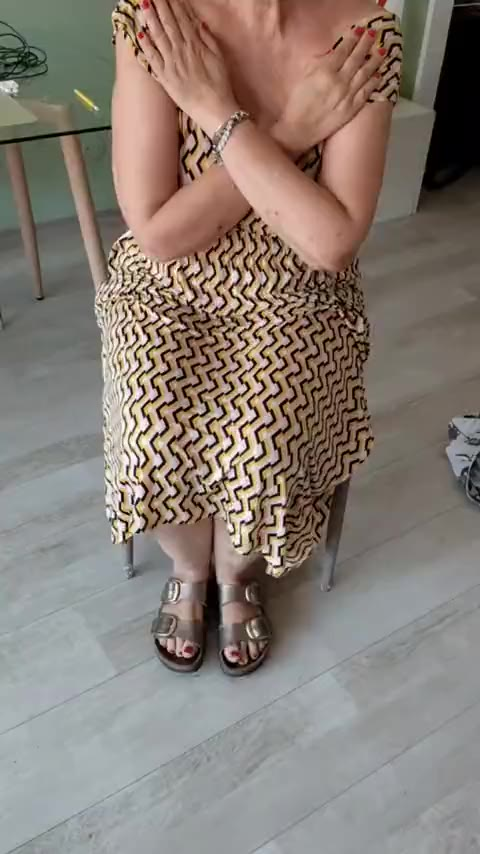
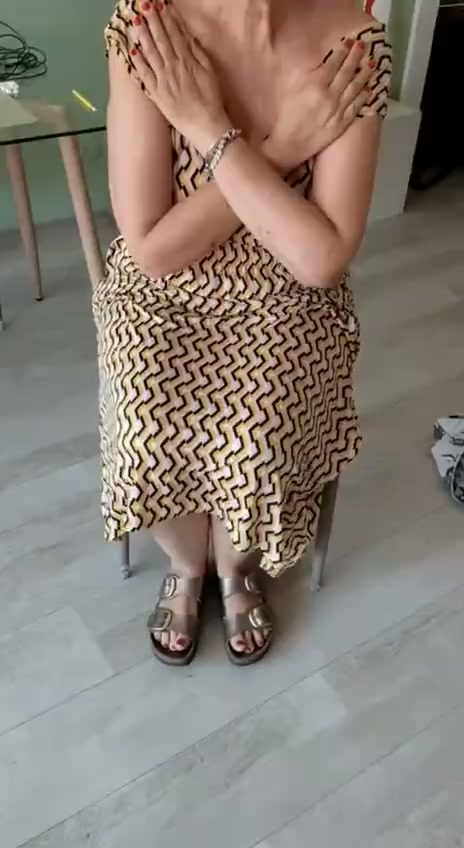
preload demos and update chair clip

diff --git a/src/components/DemoVideoProvider.tsx b/src/components/DemoVideoProvider.tsx
@@ -1,0 +1,54 @@
+import { createVideoPlayer, type VideoPlayer } from 'expo-video';
+import { createContext, useContext, useEffect, useState, type ReactNode } from 'react';
+
+import { TESTS } from '../lib/tests';
+
+const DemoVideoContext = createContext<ReadonlyMap<number, VideoPlayer> | null>(null);
+
+/**
+ * App-lifetime cache for the fixed instruction clips.
+ *
+ * expo-video buffers a player even before it is attached to a VideoView. The
+ * demo set is small and bundled with the app, so creating these players once at
+ * the root makes every instruction screen ready before the patient taps a test.
+ * Uploaded patient recordings use a separate playback path and are not cached
+ * here.
+ */
+export function DemoVideoProvider({ children }: { children: ReactNode }) {
+  const [players] = useState(() => {
+    const cache = new Map<number, VideoPlayer>();
+
+    for (const test of TESTS) {
+      if (test.demoVideo == null || cache.has(test.demoVideo)) continue;
+
+      const player = createVideoPlayer(test.demoVideo);
+      player.loop = true;
+      player.muted = true;
+      player.keepScreenOnWhilePlaying = false;
+      cache.set(test.demoVideo, player);
+    }
+
+    return cache;
+  });
+
+  useEffect(
+    () => () => {
+      for (const player of players.values()) {
+        player.pause();
+        player.release();
+      }
+    },
+    [players],
+  );
+
+  return <DemoVideoContext.Provider value={players}>{children}</DemoVideoContext.Provider>;
+}
+
+/** Returns the already-buffering player for a bundled instruction clip. */
+export function useDemoVideoPlayer(source: number | undefined): VideoPlayer | null {
+  const players = useContext(DemoVideoContext);
+  if (players == null) {
+    throw new Error('useDemoVideoPlayer must be used inside DemoVideoProvider');
+  }
+  return source == null ? null : (players.get(source) ?? null);
+}

diff --git a/src/app/_layout.tsx b/src/app/_layout.tsx
@@ -6,6 +6,7 @@ import { SafeAreaProvider } from 'react-native-safe-area-context';
 
 import '../global.css';
 import { AuthGate } from '../components/AuthGate';
+import { DemoVideoProvider } from '../components/DemoVideoProvider';
 import { DisclaimerGate } from '../components/DisclaimerGate';
 import { OfflineBanner } from '../components/OfflineBanner';
 import { UploadBanner } from '../components/UploadBanner';
@@ -25,27 +26,31 @@ export default function RootLayout() {
     <ClerkProvider publishableKey={CLERK_PUBLISHABLE_KEY} tokenCache={clerkTokenCache}>
       <LanguageProvider>
         <SafeAreaProvider>
-        <StatusBar style="dark" />
-        <DisclaimerGate>
-          <AuthGate>
-            <View className="flex-1 bg-white">
-              <OfflineBanner />
-              <UploadBanner />
-              <Stack screenOptions={{ headerShown: false, contentStyle: { backgroundColor: '#fff' } }}>
-                <Stack.Screen name="index" />
-                <Stack.Screen name="test/[id]" />
-                <Stack.Screen name="record/[id]" options={{ gestureEnabled: false }} />
-                <Stack.Screen name="results/index" />
-                <Stack.Screen name="results/[id]" />
-                <Stack.Screen name="shared/[id]" />
-                <Stack.Screen name="invite" />
-                <Stack.Screen name="share-code" />
-                <Stack.Screen name="about" options={{ presentation: 'modal' }} />
-              </Stack>
-              <ToastHost />
-            </View>
-          </AuthGate>
-        </DisclaimerGate>
+          <StatusBar style="dark" />
+          <DemoVideoProvider>
+            <DisclaimerGate>
+              <AuthGate>
+                <View className="flex-1 bg-white">
+                  <OfflineBanner />
+                  <UploadBanner />
+                  <Stack
+                    screenOptions={{ headerShown: false, contentStyle: { backgroundColor: '#fff' } }}
+                  >
+                    <Stack.Screen name="index" />
+                    <Stack.Screen name="test/[id]" />
+                    <Stack.Screen name="record/[id]" options={{ gestureEnabled: false }} />
+                    <Stack.Screen name="results/index" />
+                    <Stack.Screen name="results/[id]" />
+                    <Stack.Screen name="shared/[id]" />
+                    <Stack.Screen name="invite" />
+                    <Stack.Screen name="share-code" />
+                    <Stack.Screen name="about" options={{ presentation: 'modal' }} />
+                  </Stack>
+                  <ToastHost />
+                </View>
+              </AuthGate>
+            </DisclaimerGate>
+          </DemoVideoProvider>
         </SafeAreaProvider>
       </LanguageProvider>
     </ClerkProvider>

diff --git a/src/components/Instruction.tsx b/src/components/Instruction.tsx
@@ -1,10 +1,10 @@
 import { MaterialCommunityIcons } from '@expo/vector-icons';
-import { useEvent } from 'expo';
-import { useVideoPlayer, VideoView } from 'expo-video';
+import { VideoView, type VideoPlayer } from 'expo-video';
 import { useEffect, useState } from 'react';
 import type { ComponentProps, ReactNode } from 'react';
 import { AccessibilityInfo, ActivityIndicator, Image, Text, View } from 'react-native';
 
+import { useDemoVideoPlayer } from './DemoVideoProvider';
 import { COLORS } from '../lib/theme';
 
 type MCIName = ComponentProps<typeof MaterialCommunityIcons>['name'];
@@ -17,11 +17,9 @@ const GOOD = '#1F9D57';
 const AVOID = '#C77700';
 
 /**
- * Looping, muted demo clip with a branded placeholder that stays on top until
- * the player reports `readyToPlay`. Without it the user sees a flash of empty
- * box while the clip loads — very noticeable in Expo Go, where the asset streams
- * over the dev tunnel. Swapping in the video only once the first frame is ready
- * removes the perceived lag/pop.
+ * Looping, muted demo clip backed by the app-lifetime player cache. The poster
+ * stays on top until VideoView confirms that it rendered a frame; player status
+ * alone is too early and briefly exposes the empty native video surface.
  */
 export function DemoVideo({
   source,
@@ -34,8 +32,10 @@ export function DemoVideo({
   icon: MCIName;
   caption: string;
 }) {
-  const hasVideo = source != null;
+  const player = useDemoVideoPlayer(source);
+  const hasVideo = player != null;
   const [reduceMotion, setReduceMotion] = useState(false);
+  const [renderedPlayer, setRenderedPlayer] = useState<VideoPlayer | null>(null);
   useEffect(() => {
     let active = true;
     AccessibilityInfo.isReduceMotionEnabled().then((v) => {
@@ -48,20 +48,18 @@ export function DemoVideo({
     };
   }, []);
 
-  const player = useVideoPlayer(source ?? null, (p) => {
-    p.loop = true;
-    p.muted = true;
-  });
-  const { status } = useEvent(player, 'statusChange', { status: player.status });
-  const ready = hasVideo && status === 'readyToPlay';
+  // Comparing by player identity resets the cover immediately when a guided
+  // session replaces one instruction route with the next.
+  const firstFrameRendered = player != null && renderedPlayer === player;
 
   // Autoplay the loop — unless the OS "reduce motion" setting is on, in which
   // case hold the first frame still.
   useEffect(() => {
-    if (source == null) return;
+    if (player == null) return;
     if (reduceMotion) player.pause();
     else player.play();
-  }, [reduceMotion, player, source]);
+    return () => player.pause();
+  }, [reduceMotion, player]);
 
   return (
     <View className="mt-2">
@@ -73,9 +71,10 @@ export function DemoVideo({
             contentFit="contain"
             nativeControls={false}
             accessibilityLabel={caption}
+            onFirstFrameRender={() => setRenderedPlayer(player)}
           />
         )}
-        {!ready &&
+        {!firstFrameRendered &&
           (poster != null ? (
             <Image
               source={poster}